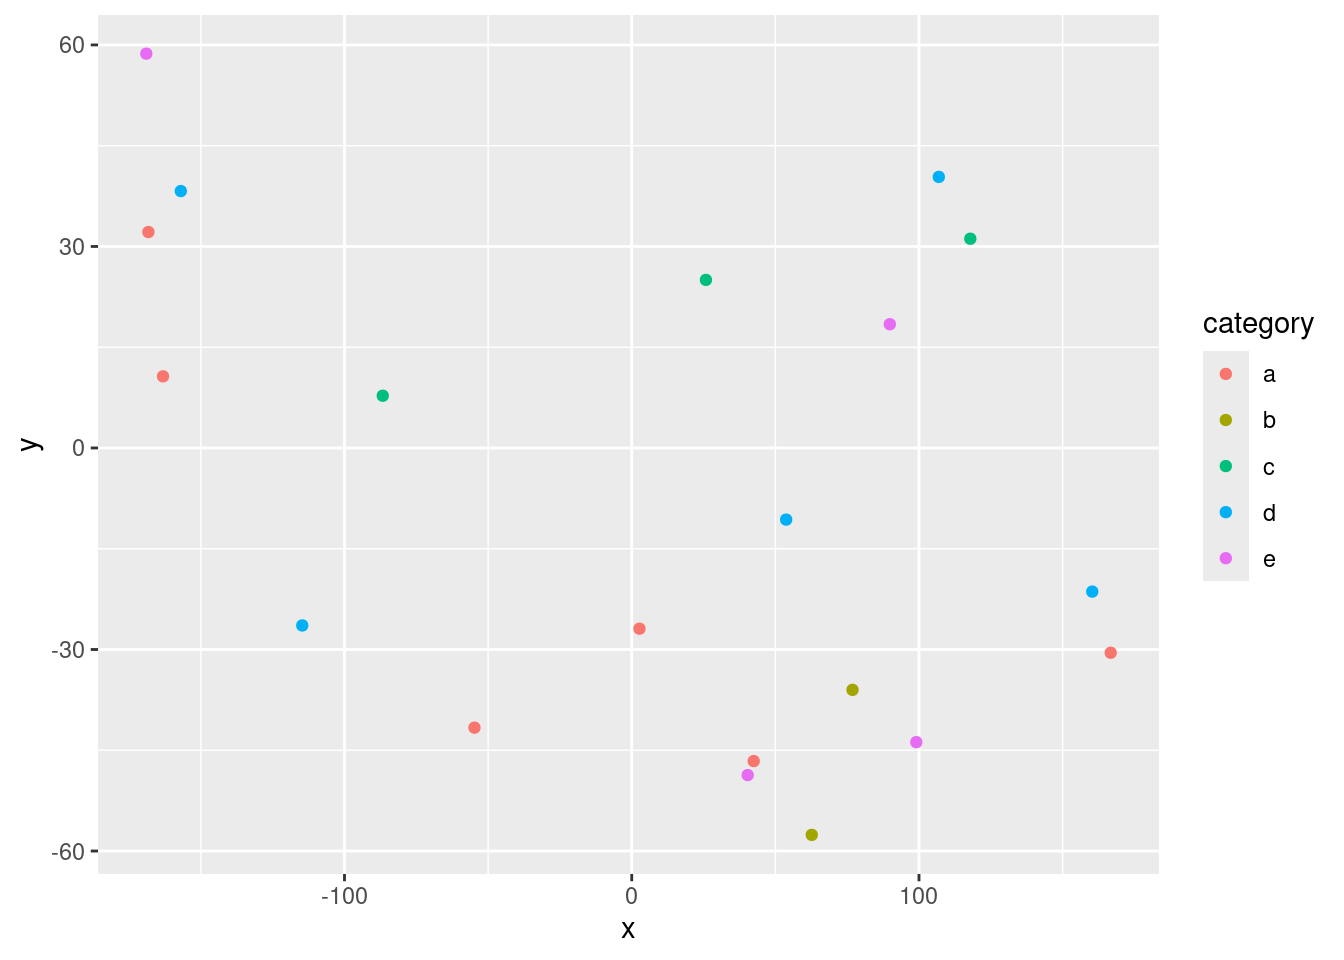
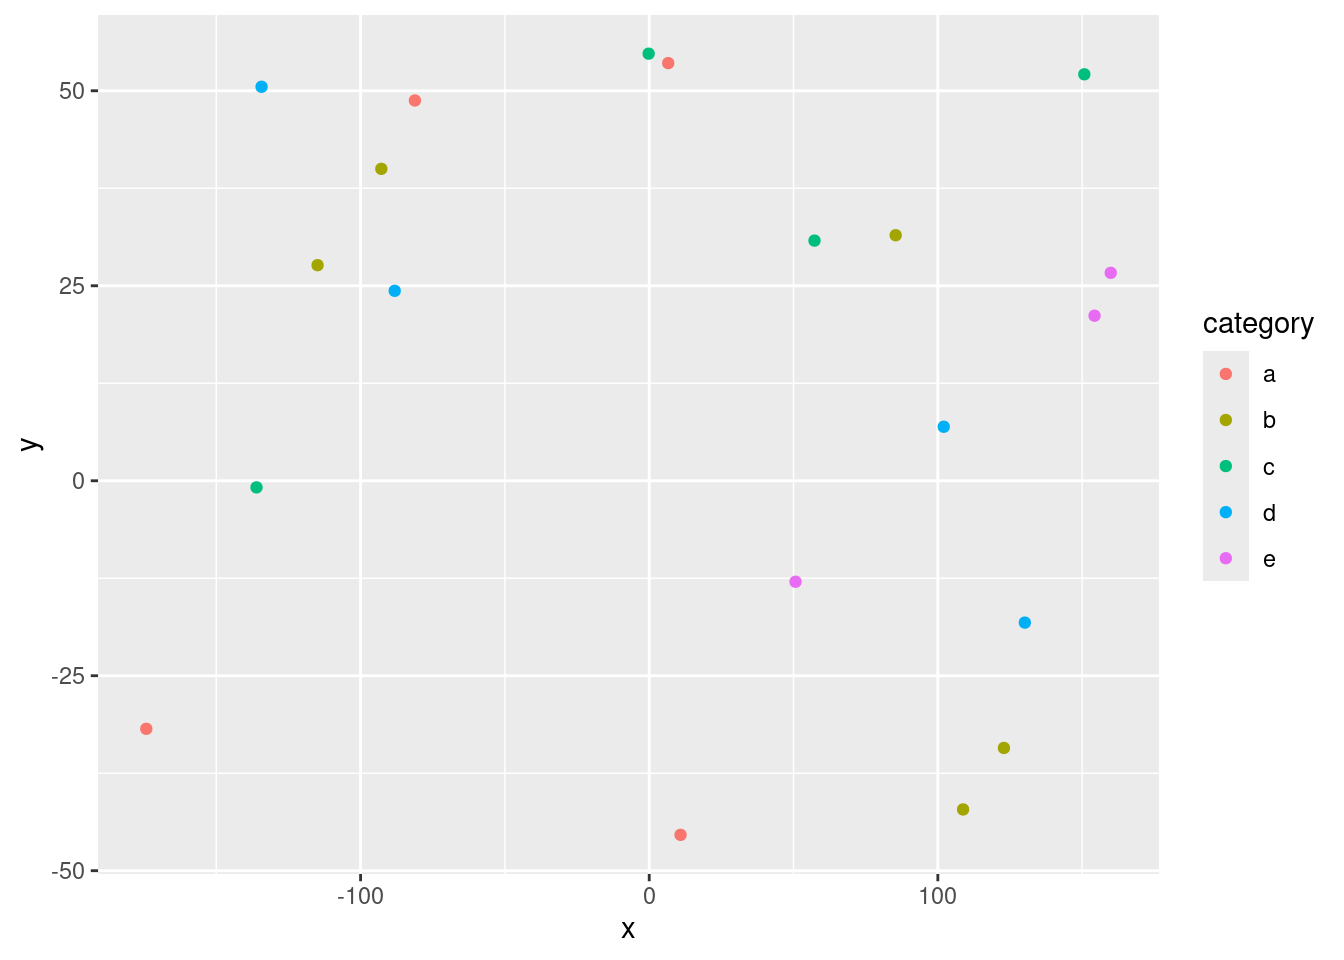
Built site for gh-pages

diff --git a/index.html b/index.html
@@ -6,10 +6,9 @@
 
 <meta name="viewport" content="width=device-width, initial-scale=1.0, user-scalable=yes">
 
-<meta name="author" content="Your name here">
-<meta name="dcterms.date" content="2024-10-24">
+<meta name="author" content="Faithwin Gbadamosi">
 
-<title>My Final Project Template – GEO511_FinalProject</title>
+<title>GEO511 Final Project – Faithwin’s GEO511 FinalProject</title>
 <style>
 code{white-space: pre-wrap;}
 span.smallcaps{font-variant: small-caps;}
@@ -133,7 +132,7 @@ pre > code.sourceCode > span > a:first-child::before { text-decoration: underlin
       <div class="navbar-container container-fluid">
       <div class="navbar-brand-container mx-auto">
     <a class="navbar-brand" href="./index.html">
-    <span class="navbar-title">GEO511_FinalProject</span>
+    <span class="navbar-title">Faithwin’s GEO511 FinalProject</span>
     </a>
   </div>
             <div id="quarto-search" class="" title="Search"></div>
@@ -167,8 +166,8 @@ pre > code.sourceCode > span > a:first-child::before { text-decoration: underlin
 
 <header id="title-block-header" class="quarto-title-block default">
 <div class="quarto-title">
-<h1 class="title">My Final Project Template</h1>
-<p class="subtitle lead">Subtitle here if desired</p>
+<h1 class="title">GEO511 Final Project</h1>
+<p class="subtitle lead">This is the template for my final project</p>
 </div>
 
 
@@ -178,14 +177,14 @@ pre > code.sourceCode > span > a:first-child::before { text-decoration: underlin
     <div>
     <div class="quarto-title-meta-heading">Author</div>
     <div class="quarto-title-meta-contents">
-             <p>Your name here </p>
+             <p>Faithwin Gbadamosi </p>
           </div>
   </div>
     
     <div>
     <div class="quarto-title-meta-heading">Published</div>
     <div class="quarto-title-meta-contents">
-      <p class="date">October 24, 2024</p>
+      <p class="date">today</p>
     </div>
   </div>
   
@@ -197,6 +196,7 @@ pre > code.sourceCode > span > a:first-child::before { text-decoration: underlin
 </header>
 
 
+<p>library(rmarkdown) library(knitr)</p>
 <section id="introduction" class="level1">
 <h1>Introduction</h1>
 <p>[~ 200 words]</p>
@@ -266,74 +266,74 @@ pre > code.sourceCode > span > a:first-child::before { text-decoration: underlin
 </thead>
 <tbody>
 <tr class="odd">
-<td style="text-align: center;">76.86</td>
-<td style="text-align: center;">-36.01</td>
-<td style="text-align: center;">7.88</td>
-<td style="text-align: center;">b</td>
-<td style="text-align: center;">-0.09</td>
+<td style="text-align: center;">154.29</td>
+<td style="text-align: center;">21.16</td>
+<td style="text-align: center;">20.00</td>
+<td style="text-align: center;">e</td>
+<td style="text-align: center;">-0.48</td>
 </tr>
 <tr class="even">
-<td style="text-align: center;">2.69</td>
-<td style="text-align: center;">-26.90</td>
-<td style="text-align: center;">8.76</td>
-<td style="text-align: center;">a</td>
-<td style="text-align: center;">-0.60</td>
-</tr>
-<tr class="odd">
-<td style="text-align: center;">-168.26</td>
-<td style="text-align: center;">32.15</td>
-<td style="text-align: center;">14.43</td>
-<td style="text-align: center;">a</td>
-<td style="text-align: center;">-0.94</td>
-</tr>
-<tr class="even">
-<td style="text-align: center;">53.76</td>
-<td style="text-align: center;">-10.66</td>
-<td style="text-align: center;">5.81</td>
-<td style="text-align: center;">d</td>
-<td style="text-align: center;">-1.09</td>
-</tr>
-<tr class="odd">
-<td style="text-align: center;">-114.70</td>
-<td style="text-align: center;">-26.42</td>
-<td style="text-align: center;">13.04</td>
-<td style="text-align: center;">d</td>
-<td style="text-align: center;">-0.66</td>
-</tr>
-<tr class="even">
-<td style="text-align: center;">-156.98</td>
-<td style="text-align: center;">38.25</td>
-<td style="text-align: center;">5.37</td>
-<td style="text-align: center;">d</td>
-<td style="text-align: center;">1.74</td>
-</tr>
-<tr class="odd">
-<td style="text-align: center;">-86.67</td>
-<td style="text-align: center;">7.78</td>
-<td style="text-align: center;">6.06</td>
+<td style="text-align: center;">57.27</td>
+<td style="text-align: center;">30.79</td>
+<td style="text-align: center;">18.97</td>
 <td style="text-align: center;">c</td>
-<td style="text-align: center;">0.96</td>
-</tr>
-<tr class="even">
-<td style="text-align: center;">89.84</td>
-<td style="text-align: center;">18.42</td>
-<td style="text-align: center;">12.47</td>
-<td style="text-align: center;">e</td>
-<td style="text-align: center;">0.44</td>
+<td style="text-align: center;">-1.30</td>
 </tr>
 <tr class="odd">
-<td style="text-align: center;">62.67</td>
-<td style="text-align: center;">-57.60</td>
-<td style="text-align: center;">15.30</td>
-<td style="text-align: center;">b</td>
-<td style="text-align: center;">1.01</td>
+<td style="text-align: center;">150.75</td>
+<td style="text-align: center;">52.11</td>
+<td style="text-align: center;">11.55</td>
+<td style="text-align: center;">c</td>
+<td style="text-align: center;">0.48</td>
 </tr>
 <tr class="even">
-<td style="text-align: center;">99.07</td>
-<td style="text-align: center;">-43.79</td>
-<td style="text-align: center;">16.39</td>
+<td style="text-align: center;">108.75</td>
+<td style="text-align: center;">-42.15</td>
+<td style="text-align: center;">15.47</td>
+<td style="text-align: center;">b</td>
+<td style="text-align: center;">0.43</td>
+</tr>
+<tr class="odd">
+<td style="text-align: center;">102.05</td>
+<td style="text-align: center;">6.92</td>
+<td style="text-align: center;">6.64</td>
+<td style="text-align: center;">d</td>
+<td style="text-align: center;">0.45</td>
+</tr>
+<tr class="even">
+<td style="text-align: center;">130.14</td>
+<td style="text-align: center;">-18.19</td>
+<td style="text-align: center;">10.84</td>
+<td style="text-align: center;">d</td>
+<td style="text-align: center;">-0.77</td>
+</tr>
+<tr class="odd">
+<td style="text-align: center;">159.90</td>
+<td style="text-align: center;">26.66</td>
+<td style="text-align: center;">5.72</td>
 <td style="text-align: center;">e</td>
-<td style="text-align: center;">0.70</td>
+<td style="text-align: center;">1.24</td>
+</tr>
+<tr class="even">
+<td style="text-align: center;">10.85</td>
+<td style="text-align: center;">-45.40</td>
+<td style="text-align: center;">12.19</td>
+<td style="text-align: center;">a</td>
+<td style="text-align: center;">0.12</td>
+</tr>
+<tr class="odd">
+<td style="text-align: center;">-134.31</td>
+<td style="text-align: center;">50.51</td>
+<td style="text-align: center;">5.51</td>
+<td style="text-align: center;">d</td>
+<td style="text-align: center;">0.33</td>
+</tr>
+<tr class="even">
+<td style="text-align: center;">85.39</td>
+<td style="text-align: center;">31.48</td>
+<td style="text-align: center;">5.66</td>
+<td style="text-align: center;">b</td>
+<td style="text-align: center;">1.00</td>
 </tr>
 </tbody>
 </table>
@@ -355,8 +355,8 @@ pre > code.sourceCode > span > a:first-child::before { text-decoration: underlin
 <span id="cb5-4"><a href="#cb5-4" aria-hidden="true" tabindex="-1"></a>  <span class="fu">addPopups</span>(<span class="sc">~</span>x[<span class="dv">2</span>], <span class="sc">~</span>y[<span class="dv">2</span>], <span class="st">"Random popup"</span>)</span>
 <span id="cb5-5"><a href="#cb5-5" aria-hidden="true" tabindex="-1"></a>m  <span class="co"># a map with the default OSM tile layer</span></span></code><button title="Copy to Clipboard" class="code-copy-button"><i class="bi"></i></button></pre></div>
 <div class="cell-output-display">
-<div class="leaflet html-widget html-fill-item" id="htmlwidget-d66bc3a16f526f8b23fd" style="width:100%;height:325px;"></div>
-<script type="application/json" data-for="htmlwidget-d66bc3a16f526f8b23fd">{"x":{"options":{"crs":{"crsClass":"L.CRS.EPSG3857","code":null,"proj4def":null,"projectedBounds":null,"options":{}}},"calls":[{"method":"addTiles","args":["https://{s}.tile.openstreetmap.org/{z}/{x}/{y}.png",null,null,{"minZoom":0,"maxZoom":18,"tileSize":256,"subdomains":"abc","errorTileUrl":"","tms":false,"noWrap":false,"zoomOffset":0,"zoomReverse":false,"opacity":1,"zIndex":1,"detectRetina":false,"attribution":"&copy; <a href=\"https://openstreetmap.org/copyright/\">OpenStreetMap<\/a>,  <a href=\"https://opendatacommons.org/licenses/odbl/\">ODbL<\/a>"}]},{"method":"addCircleMarkers","args":[[-36.01152026094496,-26.90361860208213,32.14510029181838,-10.66297545097768,-26.41943156719208,38.24675196781754,7.775931861251593,18.42077306471765,-57.59674351662397,-43.79317020066082,10.66335436888039,25.02127622254193,40.35331629216671,-21.37934505008161,-46.61232498474419,-41.63653836585581,58.69947812519968,-30.48698357306421,-48.69616806507111,31.15364519879222],[76.8582605291158,2.691495325416327,-168.2647132035345,53.75869503244758,-114.6987452823669,-156.9817123096436,-86.67162864468992,89.83889579772949,62.66994087025523,99.06611784361303,-163.1738707702607,25.8257940877229,106.8985620327294,160.3175104502589,42.46187900193036,-54.74895763210952,-168.9974186941981,166.7437021248043,40.36951147019863,117.86257032305],[7.884046011604369,8.762648875126615,14.42616260959767,5.805662082275376,13.03887845017016,5.368001608876511,6.059390966547653,12.47353220591322,15.30447808210738,16.39015454682522,17.74337138282135,11.63053663447499,18.58298429753631,19.69608859508298,13.3224266115576,11.17956472793594,5.227771471254528,13.24897087411955,17.27319240453653,17.52160686883144],null,null,{"interactive":true,"className":"","stroke":true,"color":["b","a","a","d","d","d","c","e","b","e","a","c","d","d","a","a","e","a","e","c"],"weight":5,"opacity":0.5,"fill":true,"fillColor":["b","a","a","d","d","d","c","e","b","e","a","c","d","d","a","a","e","a","e","c"],"fillOpacity":0.2},null,null,null,null,null,{"interactive":false,"permanent":false,"direction":"auto","opacity":1,"offset":[0,0],"textsize":"10px","textOnly":false,"className":"","sticky":true},null]},{"method":"addPopups","args":[-26.90361860208213,2.691495325416327,"Random popup",null,null,{"maxWidth":300,"minWidth":50,"autoPan":true,"keepInView":false,"closeButton":true,"className":""}]}],"limits":{"lat":[-57.59674351662397,58.69947812519968],"lng":[-168.9974186941981,166.7437021248043]}},"evals":[],"jsHooks":[]}</script>
+<div class="leaflet html-widget html-fill-item" id="htmlwidget-662286b273604298e0ef" style="width:100%;height:325px;"></div>
+<script type="application/json" data-for="htmlwidget-662286b273604298e0ef">{"x":{"options":{"crs":{"crsClass":"L.CRS.EPSG3857","code":null,"proj4def":null,"projectedBounds":null,"options":{}}},"calls":[{"method":"addTiles","args":["https://{s}.tile.openstreetmap.org/{z}/{x}/{y}.png",null,null,{"minZoom":0,"maxZoom":18,"tileSize":256,"subdomains":"abc","errorTileUrl":"","tms":false,"noWrap":false,"zoomOffset":0,"zoomReverse":false,"opacity":1,"zIndex":1,"detectRetina":false,"attribution":"&copy; <a href=\"https://openstreetmap.org/copyright/\">OpenStreetMap<\/a>,  <a href=\"https://opendatacommons.org/licenses/odbl/\">ODbL<\/a>"}]},{"method":"addCircleMarkers","args":[[21.16079620085657,30.79176762141287,52.11265230551362,-42.14596982114017,6.923385020345449,-18.18923620507121,26.65900770574808,-45.40460796095431,50.51394528709352,31.47876631468534,48.75531110912561,27.64076689258218,53.54988198727369,-34.25945970229805,-12.95007633045316,-31.80572566576302,54.75867538712919,-0.8497463073581457,24.35400584712625,39.99271762557328],[154.2908302042633,57.26807534694672,150.7493884395808,108.745247181505,102.0493929181248,130.1406731922179,159.8964125197381,10.85312484763563,-134.3050190247595,85.39293050765991,-81.17907579056919,-114.9075365625322,6.588127613067627,122.8930000215769,50.69523959420621,-174.2474343068898,-0.2027338463813066,-136.0577602218837,-88.17869374528527,-92.81447804532945],[19.99537070980296,18.97017053910531,11.5508117293939,15.46592975617386,6.644948137691244,10.83839498111047,5.724760462762788,12.18976397067308,5.508742588572204,5.661189587553963,16.67099607293494,8.728655162267387,19.73013594863005,13.20451318984851,18.67698688060045,19.77543509216048,17.08553674281575,6.487776584690437,11.14540242706425,8.876362313749269],null,null,{"interactive":true,"className":"","stroke":true,"color":["e","c","c","b","d","d","e","a","d","b","a","b","a","b","e","a","c","c","d","b"],"weight":5,"opacity":0.5,"fill":true,"fillColor":["e","c","c","b","d","d","e","a","d","b","a","b","a","b","e","a","c","c","d","b"],"fillOpacity":0.2},null,null,null,null,null,{"interactive":false,"permanent":false,"direction":"auto","opacity":1,"offset":[0,0],"textsize":"10px","textOnly":false,"className":"","sticky":true},null]},{"method":"addPopups","args":[30.79176762141287,57.26807534694672,"Random popup",null,null,{"maxWidth":300,"minWidth":50,"autoPan":true,"keepInView":false,"closeButton":true,"className":""}]}],"limits":{"lat":[-45.40460796095431,54.75867538712919],"lng":[-174.2474343068898,159.8964125197381]}},"evals":[],"jsHooks":[]}</script>
 <p>Map of completely random data</p>
 </div>
 </div>
@@ -379,8 +379,8 @@ pre > code.sourceCode > span > a:first-child::before { text-decoration: underlin
 <span id="cb7-2"><a href="#cb7-2" aria-hidden="true" tabindex="-1"></a><span class="fu">dygraph</span>(nhtemp, <span class="at">main =</span> <span class="st">"New Haven Temperatures"</span>) <span class="sc">|&gt;</span> </span>
 <span id="cb7-3"><a href="#cb7-3" aria-hidden="true" tabindex="-1"></a>  <span class="fu">dyRangeSelector</span>(<span class="at">dateWindow =</span> <span class="fu">c</span>(<span class="st">"1920-01-01"</span>, <span class="st">"1960-01-01"</span>)) </span></code><button title="Copy to Clipboard" class="code-copy-button"><i class="bi"></i></button></pre></div>
 <div class="cell-output-display">
-<div class="dygraphs html-widget html-fill-item" id="htmlwidget-914954b698e560677420" style="width:100%;height:464px;"></div>
-<script type="application/json" data-for="htmlwidget-914954b698e560677420">{"x":{"attrs":{"title":"New Haven Temperatures","labels":["year","V1"],"legend":"auto","retainDateWindow":false,"axes":{"x":{"pixelsPerLabel":60}},"showRangeSelector":true,"dateWindow":["1920-01-01T00:00:00.000Z","1960-01-01T00:00:00.000Z"],"rangeSelectorHeight":40,"rangeSelectorPlotFillColor":" #A7B1C4","rangeSelectorPlotStrokeColor":"#808FAB","interactionModel":"Dygraph.Interaction.defaultModel"},"scale":"yearly","annotations":[],"shadings":[],"events":[],"format":"date","data":[["1912-01-01T00:00:00.000Z","1913-01-01T00:00:00.000Z","1914-01-01T00:00:00.000Z","1915-01-01T00:00:00.000Z","1916-01-01T00:00:00.000Z","1917-01-01T00:00:00.000Z","1918-01-01T00:00:00.000Z","1919-01-01T00:00:00.000Z","1920-01-01T00:00:00.000Z","1921-01-01T00:00:00.000Z","1922-01-01T00:00:00.000Z","1923-01-01T00:00:00.000Z","1924-01-01T00:00:00.000Z","1925-01-01T00:00:00.000Z","1926-01-01T00:00:00.000Z","1927-01-01T00:00:00.000Z","1928-01-01T00:00:00.000Z","1929-01-01T00:00:00.000Z","1930-01-01T00:00:00.000Z","1931-01-01T00:00:00.000Z","1932-01-01T00:00:00.000Z","1933-01-01T00:00:00.000Z","1934-01-01T00:00:00.000Z","1935-01-01T00:00:00.000Z","1936-01-01T00:00:00.000Z","1937-01-01T00:00:00.000Z","1938-01-01T00:00:00.000Z","1939-01-01T00:00:00.000Z","1940-01-01T00:00:00.000Z","1941-01-01T00:00:00.000Z","1942-01-01T00:00:00.000Z","1943-01-01T00:00:00.000Z","1944-01-01T00:00:00.000Z","1945-01-01T00:00:00.000Z","1946-01-01T00:00:00.000Z","1947-01-01T00:00:00.000Z","1948-01-01T00:00:00.000Z","1949-01-01T00:00:00.000Z","1950-01-01T00:00:00.000Z","1951-01-01T00:00:00.000Z","1952-01-01T00:00:00.000Z","1953-01-01T00:00:00.000Z","1954-01-01T00:00:00.000Z","1955-01-01T00:00:00.000Z","1956-01-01T00:00:00.000Z","1957-01-01T00:00:00.000Z","1958-01-01T00:00:00.000Z","1959-01-01T00:00:00.000Z","1960-01-01T00:00:00.000Z","1961-01-01T00:00:00.000Z","1962-01-01T00:00:00.000Z","1963-01-01T00:00:00.000Z","1964-01-01T00:00:00.000Z","1965-01-01T00:00:00.000Z","1966-01-01T00:00:00.000Z","1967-01-01T00:00:00.000Z","1968-01-01T00:00:00.000Z","1969-01-01T00:00:00.000Z","1970-01-01T00:00:00.000Z","1971-01-01T00:00:00.000Z"],[49.9,52.3,49.4,51.1,49.4,47.9,49.8,50.9,49.3,51.9,50.8,49.6,49.3,50.6,48.4,50.7,50.9,50.6,51.5,52.8,51.8,51.1,49.8,50.2,50.4,51.6,51.8,50.9,48.8,51.7,51,50.6,51.7,51.5,52.1,51.3,51,54,51.4,52.7,53.1,54.6,52,52,50.9,52.6,50.2,52.6,51.6,51.9,50.5,50.9,51.7,51.4,51.7,50.8,51.9,51.8,51.9,53]]},"evals":["attrs.interactionModel"],"jsHooks":[]}</script>
+<div class="dygraphs html-widget html-fill-item" id="htmlwidget-e99892b685990544bef2" style="width:100%;height:464px;"></div>
+<script type="application/json" data-for="htmlwidget-e99892b685990544bef2">{"x":{"attrs":{"title":"New Haven Temperatures","labels":["year","V1"],"legend":"auto","retainDateWindow":false,"axes":{"x":{"pixelsPerLabel":60}},"showRangeSelector":true,"dateWindow":["1920-01-01T00:00:00.000Z","1960-01-01T00:00:00.000Z"],"rangeSelectorHeight":40,"rangeSelectorPlotFillColor":" #A7B1C4","rangeSelectorPlotStrokeColor":"#808FAB","interactionModel":"Dygraph.Interaction.defaultModel"},"scale":"yearly","annotations":[],"shadings":[],"events":[],"format":"date","data":[["1912-01-01T00:00:00.000Z","1913-01-01T00:00:00.000Z","1914-01-01T00:00:00.000Z","1915-01-01T00:00:00.000Z","1916-01-01T00:00:00.000Z","1917-01-01T00:00:00.000Z","1918-01-01T00:00:00.000Z","1919-01-01T00:00:00.000Z","1920-01-01T00:00:00.000Z","1921-01-01T00:00:00.000Z","1922-01-01T00:00:00.000Z","1923-01-01T00:00:00.000Z","1924-01-01T00:00:00.000Z","1925-01-01T00:00:00.000Z","1926-01-01T00:00:00.000Z","1927-01-01T00:00:00.000Z","1928-01-01T00:00:00.000Z","1929-01-01T00:00:00.000Z","1930-01-01T00:00:00.000Z","1931-01-01T00:00:00.000Z","1932-01-01T00:00:00.000Z","1933-01-01T00:00:00.000Z","1934-01-01T00:00:00.000Z","1935-01-01T00:00:00.000Z","1936-01-01T00:00:00.000Z","1937-01-01T00:00:00.000Z","1938-01-01T00:00:00.000Z","1939-01-01T00:00:00.000Z","1940-01-01T00:00:00.000Z","1941-01-01T00:00:00.000Z","1942-01-01T00:00:00.000Z","1943-01-01T00:00:00.000Z","1944-01-01T00:00:00.000Z","1945-01-01T00:00:00.000Z","1946-01-01T00:00:00.000Z","1947-01-01T00:00:00.000Z","1948-01-01T00:00:00.000Z","1949-01-01T00:00:00.000Z","1950-01-01T00:00:00.000Z","1951-01-01T00:00:00.000Z","1952-01-01T00:00:00.000Z","1953-01-01T00:00:00.000Z","1954-01-01T00:00:00.000Z","1955-01-01T00:00:00.000Z","1956-01-01T00:00:00.000Z","1957-01-01T00:00:00.000Z","1958-01-01T00:00:00.000Z","1959-01-01T00:00:00.000Z","1960-01-01T00:00:00.000Z","1961-01-01T00:00:00.000Z","1962-01-01T00:00:00.000Z","1963-01-01T00:00:00.000Z","1964-01-01T00:00:00.000Z","1965-01-01T00:00:00.000Z","1966-01-01T00:00:00.000Z","1967-01-01T00:00:00.000Z","1968-01-01T00:00:00.000Z","1969-01-01T00:00:00.000Z","1970-01-01T00:00:00.000Z","1971-01-01T00:00:00.000Z"],[49.9,52.3,49.4,51.1,49.4,47.9,49.8,50.9,49.3,51.9,50.8,49.6,49.3,50.6,48.4,50.7,50.9,50.6,51.5,52.8,51.8,51.1,49.8,50.2,50.4,51.6,51.8,50.9,48.8,51.7,51,50.6,51.7,51.5,52.1,51.3,51,54,51.4,52.7,53.1,54.6,52,52,50.9,52.6,50.2,52.6,51.6,51.9,50.5,50.9,51.7,51.4,51.7,50.8,51.9,51.8,51.9,53]]},"evals":["attrs.interactionModel"],"jsHooks":[]}</script>
 </div>
 </div>
 </section>

diff --git a/about.html b/about.html
@@ -7,7 +7,7 @@
 <meta name="viewport" content="width=device-width, initial-scale=1.0, user-scalable=yes">
 
 
-<title>About – GEO511_FinalProject</title>
+<title>About – Faithwin’s GEO511 FinalProject</title>
 <style>
 code{white-space: pre-wrap;}
 span.smallcaps{font-variant: small-caps;}
@@ -112,7 +112,7 @@ pre > code.sourceCode > span > a:first-child::before { text-decoration: underlin
       <div class="navbar-container container-fluid">
       <div class="navbar-brand-container mx-auto">
     <a class="navbar-brand" href="./index.html">
-    <span class="navbar-title">GEO511_FinalProject</span>
+    <span class="navbar-title">Faithwin’s GEO511 FinalProject</span>
     </a>
   </div>
             <div id="quarto-search" class="" title="Search"></div>

diff --git a/data/Readme.html b/data/Readme.html
@@ -7,7 +7,7 @@
 <meta name="viewport" content="width=device-width, initial-scale=1.0, user-scalable=yes">
 
 
-<title>readme – GEO511_FinalProject</title>
+<title>readme – Faithwin's GEO511 FinalProject</title>
 <style>
 code{white-space: pre-wrap;}
 span.smallcaps{font-variant: small-caps;}
@@ -78,7 +78,7 @@ ul.task-list li input[type="checkbox"] {
       <div class="navbar-container container-fluid">
       <div class="navbar-brand-container mx-auto">
     <a class="navbar-brand" href="../index.html">
-    <span class="navbar-title">GEO511_FinalProject</span>
+    <span class="navbar-title">Faithwin’s GEO511 FinalProject</span>
     </a>
   </div>
             <div id="quarto-search" class="" title="Search"></div>
